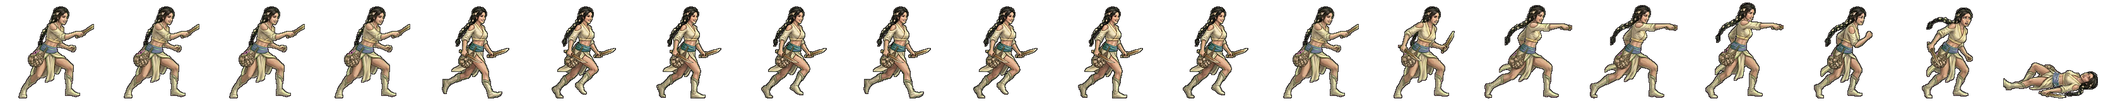
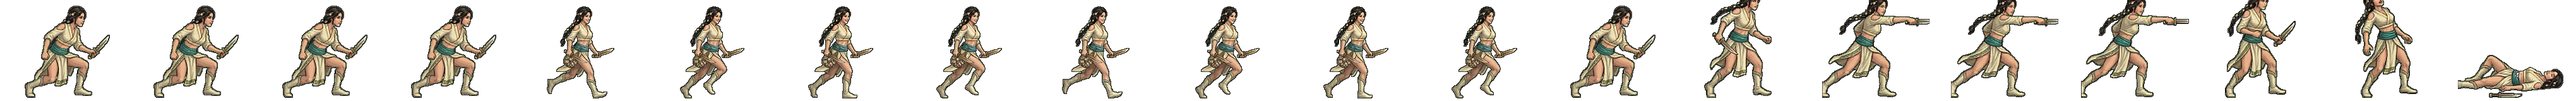
전투 띠 새로: singwigan 동작 띠 다시 — 형이 구움 (굽기 꾸러미 · 검수 1·3번) (형 11-08)
Claude-Session: https://claude.ai/code/session_01TRiuNAG8xSjdmjCFpc8Rd5

Changed region(s): [[0.0, 0.0, 0.9964, 0.9688]]

diff --git a/src/realm/data/art.ts b/src/realm/data/art.ts
@@ -525,7 +525,7 @@ export const GEN_ANIM: Readonly<Partial<Record<string, { ar: number; body: numbe
   goeun: { ar: 142 / 160, body: 0.900 }, // 11-08 초상대로 다시 (형: 「투구 쓰고 원본과 다르다」 · 제미나이 걷기 4×2 + 동작 4×2 → 20컷 · assets_src/realm/gemini/generals2) · 11-08 처음 · 신라 고은(붉은 끈 긴 머리·짙은 붉은 비단 짧은 저고리·높게 트인 치마·곧은 고리자루 칼 베기)
   baram: { ar: 173 / 160, body: 0.900 }, // 11-08 초상대로 다시 (형: 「투구 쓰고 원본과 다르다」 · 제미나이 걷기 4×2 + 동작 4×2 → 20컷 · assets_src/realm/gemini/generals2) · 11-08 처음 · 고사부리 바람(바람에 날리는 긴 머리·크림빛 긴 목도리·짙은 남색 짧은 윗옷·트인 치마·청동 잎 단검 찌르기)
   beom: { ar: 164 / 160, body: 0.894 }, // 11-08 초상대로 다시 (형: 「투구 쓰고 원본과 다르다」 · 제미나이 걷기 4×2 + 동작 4×2 → 20컷 · assets_src/realm/gemini/generals2) · 11-08 처음 · 골벌 범(헝클어진 긴 머리·범 가죽 어깨 망토·짙은 가죽 짧은 윗옷·범 발톱 팔찌·발톱 같은 굽은 청동 단검)
-  dokmudeom: { ar: 168 / 160, body: 0.906 }, // 11-08 초상대로 다시 (형: 「투구 쓰고 원본과 다르다」 · 제미나이 걷기 4×2 + 동작 4×2 → 20컷 · assets_src/realm/gemini/generals2) · 11-08 처음 · 반라 독무덤(창백한 얼굴·검은 머리띠·짙은 털 망토·검은 윗옷·독 단지·검은 청동 단검 찌르기)
+  dokmudeom: { ar: 176 / 160, body: 0.906 }, // 11-08 초상대로 다시 (형: 「투구 쓰고 원본과 다르다」 · 제미나이 걷기 4×2 + 동작 4×2 → 20컷 · assets_src/realm/gemini/generals2) · 11-08 처음 · dokmudeom 동작 띠 다시 — 형이 구움 (굽기 꾸러미 · 검수 1·3번)
   areum: { ar: 159 / 160, body: 0.906 }, // 11-08 초상대로 다시 (형: 「투구 쓰고 원본과 다르다」 · 제미나이 걷기 4×2 + 동작 4×2 → 20컷 · assets_src/realm/gemini/generals2) · 11-08 처음 · 가야 아름(짧게 헝클어진 머리·가죽 작업 조끼·앞치마 치마·큰 쇠 대장 망치 내려치기)
   halla: { ar: 175 / 160, body: 0.900 }, // 11-08 초상대로 다시 (형: 「투구 쓰고 원본과 다르다」 · 제미나이 걷기 4×2 + 동작 4×2 → 20컷 · assets_src/realm/gemini/generals2) · 11-08 처음 · 탐라 한라(붉은 꽃 꽂은 물결머리·붉은 조끼·구슬 목걸이·청동 거울·방울 지팡이 내려치기)
   sagong: { ar: 159 / 160, body: 0.900 }, // 11-08 초상대로 다시 (형: 「투구 쓰고 원본과 다르다」 · 제미나이 걷기 4×2 + 동작 4×2 → 20컷 · assets_src/realm/gemini/generals2) · 11-08 처음 · 사물 사공(푸른 천으로 묶은 머리·푸른 조끼·밧줄 타래·조개 목걸이·나무 노 내려치기)
@@ -536,9 +536,9 @@ export const GEN_ANIM: Readonly<Partial<Record<string, { ar: number; body: numbe
   mulsae: { ar: 157 / 160, body: 0.900 }, // 11-08 초상대로 다시 (형: 「투구 쓰고 원본과 다르다」 · 제미나이 걷기 4×2 + 동작 4×2 → 20컷 · assets_src/realm/gemini/generals2) · 11-08 처음 · 사로 물새 동작 다시 — 창날 달린 창을 두 손으로 앞으로 겨눈다 (창날 없는 자루 찌르기 고침 · 제미나이 u/0 · 11-09 띠 검수)
   danbi: { ar: 146 / 160, body: 0.906, bow: true }, // 11-08 초상대로 다시 (형: 「투구 쓰고 원본과 다르다」 · 제미나이 걷기 4×2 + 동작 4×2 → 20컷 · assets_src/realm/gemini/generals2) · 11-08 처음 · 사로 단비(흰 끈 말총머리·초록 테 흰 짧은 윗옷·맥궁 · 준비→만작→발사→피격→쓰러짐)
   beomi: { ar: 159 / 160, body: 0.900 }, // 11-08 초상대로 다시 (형: 「투구 쓰고 원본과 다르다」 · 제미나이 걷기 4×2 + 동작 4×2 → 20컷 · assets_src/realm/gemini/generals2) · 11-08 처음 · 진지 범이(헝클어진 짧은 머리·범 가죽 짧은 윗옷과 치마·넓은 쇠 창 찌르기 · 맨발)
-  mulbeom: { ar: 155 / 160, body: 0.900 }, // 11-08 초상대로 다시 (형: 「투구 쓰고 원본과 다르다」 · 제미나이 걷기 4×2 + 동작 4×2 → 20컷 · assets_src/realm/gemini/generals2) · 11-08 처음 · 북옥저 물범(점박이 물범 가죽 두건 망토·짙은 남색 짧은 윗옷·밧줄·작살 찌르기)
+  mulbeom: { ar: 165 / 160, body: 0.900 }, // 11-08 초상대로 다시 (형: 「투구 쓰고 원본과 다르다」 · 제미나이 걷기 4×2 + 동작 4×2 → 20컷 · assets_src/realm/gemini/generals2) · 11-08 처음 · mulbeom 동작 띠 다시 — 형이 구움 (굽기 꾸러미 · 검수 1·3번)
   mdallae: { ar: 170 / 160, body: 0.906 }, // 11-08 초상대로 다시 (형: 「투구 쓰고 원본과 다르다」 · 제미나이 걷기 4×2 + 동작 4×2 → 20컷 · assets_src/realm/gemini/generals2) · 11-08 처음 · mdallae 동작 띠 다시 — 형이 구움 (굽기 꾸러미 · 검수 1·3번)
-  singwigan: { ar: 167 / 160, body: 0.900 }, // 11-08 초상대로 다시 (형: 「투구 쓰고 원본과 다르다」 · 제미나이 걷기 4×2 + 동작 4×2 → 20컷 · assets_src/realm/gemini/generals2) · 11-08 처음 · 가락 신귀간(긴 땋은 머리·크림빛 짧은 윗옷·청록 띠·조개 그물 주머니·청동 칼 찌르기)
+  singwigan: { ar: 204 / 160, body: 0.900 }, // 11-08 초상대로 다시 (형: 「투구 쓰고 원본과 다르다」 · 제미나이 걷기 4×2 + 동작 4×2 → 20컷 · assets_src/realm/gemini/generals2) · 11-08 처음 · singwigan 동작 띠 다시 — 형이 구움 (굽기 꾸러미 · 검수 1·3번)
   sincheongan: { ar: 162 / 160, body: 0.906 }, // 11-08 초상대로 다시 (형: 「투구 쓰고 원본과 다르다」 · 제미나이 걷기 4×2 + 동작 4×2 → 20컷 · assets_src/realm/gemini/generals2) · 11-08 처음 · 가락 신천간(머리띠·흰 겉옷·비취 목걸이·청동 방울 지팡이 내려치기)
   yucheongan: { ar: 147 / 160, body: 0.900 }, // 11-08 초상대로 다시 (형: 「투구 쓰고 원본과 다르다」 · 제미나이 걷기 4×2 + 동작 4×2 → 20컷 · assets_src/realm/gemini/generals2) · 11-08 처음 · 가락 유천간 · 푸른 저고리·붉은 띠·나무 지팡이
   sdallae: { ar: 163 / 160, body: 0.906, bow: true }, // 11-08 초상대로 다시 (형: 「투구 쓰고 원본과 다르다」 · 제미나이 걷기 4×2 + 동작 4×2 → 20컷 · assets_src/realm/gemini/generals2) · 11-08 처음 · 사로 달래 · 붉은 저고리·털 망토·활

diff --git a/src/ui/realm/battle-strikes.ts b/src/ui/realm/battle-strikes.ts
@@ -143,7 +143,7 @@ const CONTACT: Readonly<Record<string, [number, number, number]>> = {
   'gen-haebi': [14, 0.87, 0.53], 'gen-heo': [14, 0.94, 0.46], 'gen-hyeokgeose': [14, 0.83, 0.94],
   'gen-hyeopbo': [14, .93, .21], 'gen-malgalgi': [14, 0.88, 0.28], 'gen-mari': [14, .98, .47],
   'gen-oi': [14, .98, .48], 'gen-onjo': [14, 0.83, 0.93], 'gen-soebi': [14, 0.80, 0.95],
-  'gen-soseono': [14, 0.92, 0.31], 'gen-maryeo': [14, 0.91, 0.79], 'gen-horselord': [14, 0.89, 0.25], 'gen-olddaeso': [14, 0.93, 0.91], 'gen-maro': [14, 0.97, 0.49], 'gen-gwaeyu': [14, 0.98, 0.71], 'gen-daemusin': [14, 0.91, 0.38], 'gen-tahae': [14, 0.91, 0.74], 'gen-ocheongan': [14, 0.82, 0.49], 'gen-yusugan': [14, 0.95, 0.70], 'gen-odogan': [14, 0.93, 0.28], 'gen-pidogan': [14, 0.94, 0.75], 'gen-yeodogan': [14, 0.93, 0.57], 'gen-adogan': [14, 0.95, 0.41], 'gen-musoe': [14, 0.94, 0.39], 'gen-suro': [14, 0.82, 0.53], 'gen-waechief': [14, 0.95, 0.68], 'gen-hojin': [14, 0.97, 0.64], 'gen-jita': [14, 0.94, 0.34], 'gen-guryema': [14, 0.89, 0.28], 'gen-jibaekho': [14, 0.97, 0.33], 'gen-sobeol': [14, 0.95, 0.33], 'gen-alpyeong': [14, 0.95, 0.54], 'gen-hogong': [14, 0.98, 0.27], 'gen-geumbawi': [14, 0.91, 0.92], 'gen-keundol': [14, 0.90, 0.68], 'gen-jinha': [14, 0.76, 0.93], 'gen-duman': [14, 0.97, 0.39], 'gen-gomok': [14, 0.94, 0.57], 'gen-hneoul': [14, 0.92, 0.27], 'gen-tneoul': [14, 0.84, 0.57], 'gen-sdallae': [14, 0.89, 0.29], 'gen-yucheongan': [14, 0.97, 0.64], 'gen-sincheongan': [14, 0.91, 0.71], 'gen-singwigan': [14, 0.91, 0.27], 'gen-mdallae': [14, 0.98, 0.29], 'gen-mulbeom': [14, 0.97, 0.36], 'gen-beomi': [14, 0.88, 0.43], 'gen-danbi': [14, 0.90, 0.30], 'gen-mulsae': [14, 0.93, 0.36], 'gen-darae': [14, 0.89, 0.29], 'gen-mir': [14, 0.91, 0.33], 'gen-wan': [14, 0.94, 0.30], 'gen-gom': [14, 0.94, 0.74], 'gen-sagong': [14, 0.79, 0.96], 'gen-halla': [14, 0.86, 0.46], 'gen-areum': [14, 0.86, 0.65], 'gen-dokmudeom': [14, 0.92, 0.29], 'gen-beom': [14, 0.98, 0.28], 'gen-baram': [14, 0.96, 0.24], 'gen-goeun': [14, 0.95, 0.66], 'gen-byeol': [14, 0.76, 0.96], 'gen-sinneoul': [14, 0.95, 0.33], 'gen-haesol': [14, 0.95, 0.39], 'gen-odi': [14, 0.95, 0.37], 'gen-irang': [14, 0.86, 0.30], 'gen-dalli': [14, 0.89, 0.32], 'gen-bakdal': [14, 0.94, 0.27], 'gen-noeul': [14, 0.88, 0.27], 'gen-maehwa': [14, 0.90, 0.31], 'gen-gaon': [14, 0.98, 0.48], 'gen-eomni': [14, 0.96, 0.42], 'gen-nuri': [14, 0.98, 0.42], 'gen-bira': [14, 0.88, 0.42], 'gen-gureum': [14, 0.98, 0.42],
+  'gen-soseono': [14, 0.92, 0.31], 'gen-maryeo': [14, 0.91, 0.79], 'gen-horselord': [14, 0.89, 0.25], 'gen-olddaeso': [14, 0.93, 0.91], 'gen-maro': [14, 0.97, 0.49], 'gen-gwaeyu': [14, 0.98, 0.71], 'gen-daemusin': [14, 0.91, 0.38], 'gen-tahae': [14, 0.91, 0.74], 'gen-ocheongan': [14, 0.82, 0.49], 'gen-yusugan': [14, 0.95, 0.70], 'gen-odogan': [14, 0.93, 0.28], 'gen-pidogan': [14, 0.94, 0.75], 'gen-yeodogan': [14, 0.93, 0.57], 'gen-adogan': [14, 0.95, 0.41], 'gen-musoe': [14, 0.94, 0.39], 'gen-suro': [14, 0.82, 0.53], 'gen-waechief': [14, 0.95, 0.68], 'gen-hojin': [14, 0.97, 0.64], 'gen-jita': [14, 0.94, 0.34], 'gen-guryema': [14, 0.89, 0.28], 'gen-jibaekho': [14, 0.97, 0.33], 'gen-sobeol': [14, 0.95, 0.33], 'gen-alpyeong': [14, 0.95, 0.54], 'gen-hogong': [14, 0.98, 0.27], 'gen-geumbawi': [14, 0.91, 0.92], 'gen-keundol': [14, 0.90, 0.68], 'gen-jinha': [14, 0.76, 0.93], 'gen-duman': [14, 0.97, 0.39], 'gen-gomok': [14, 0.94, 0.57], 'gen-hneoul': [14, 0.92, 0.27], 'gen-tneoul': [14, 0.84, 0.57], 'gen-sdallae': [14, 0.89, 0.29], 'gen-yucheongan': [14, 0.97, 0.64], 'gen-sincheongan': [14, 0.91, 0.71], 'gen-singwigan': [14, 0.98, 0.21], 'gen-mdallae': [14, 0.98, 0.29], 'gen-mulbeom': [14, 0.95, 0.39], 'gen-beomi': [14, 0.88, 0.43], 'gen-danbi': [14, 0.90, 0.30], 'gen-mulsae': [14, 0.93, 0.36], 'gen-darae': [14, 0.89, 0.29], 'gen-mir': [14, 0.91, 0.33], 'gen-wan': [14, 0.94, 0.30], 'gen-gom': [14, 0.94, 0.74], 'gen-sagong': [14, 0.79, 0.96], 'gen-halla': [14, 0.86, 0.46], 'gen-areum': [14, 0.86, 0.65], 'gen-dokmudeom': [14, 0.95, 0.28], 'gen-beom': [14, 0.98, 0.28], 'gen-baram': [14, 0.96, 0.24], 'gen-goeun': [14, 0.95, 0.66], 'gen-byeol': [14, 0.76, 0.96], 'gen-sinneoul': [14, 0.95, 0.33], 'gen-haesol': [14, 0.95, 0.39], 'gen-odi': [14, 0.95, 0.37], 'gen-irang': [14, 0.86, 0.30], 'gen-dalli': [14, 0.89, 0.32], 'gen-bakdal': [14, 0.94, 0.27], 'gen-noeul': [14, 0.88, 0.27], 'gen-maehwa': [14, 0.90, 0.31], 'gen-gaon': [14, 0.98, 0.48], 'gen-eomni': [14, 0.96, 0.42], 'gen-nuri': [14, 0.98, 0.42], 'gen-bira': [14, 0.88, 0.42], 'gen-gureum': [14, 0.98, 0.42],
   'gen-biryu': [14, 0.90, 0.35], 'gen-geumha': [14, 0.94, 0.61], 'gen-geota': [14, 0.86, 0.47], 'gen-soebo': [14, 0.87, 0.57],
   'gen-gaennae': [14, 249 / 264, 47 / 160],
   'gen-budeul': [14, 266 / 280, 51 / 160],
